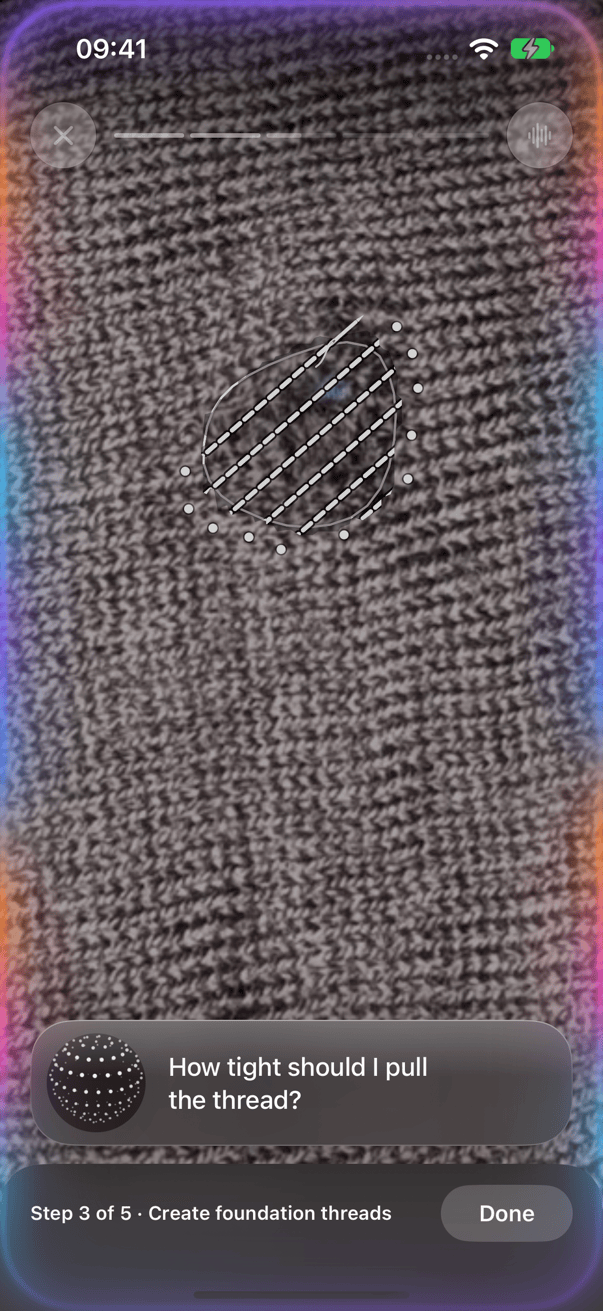
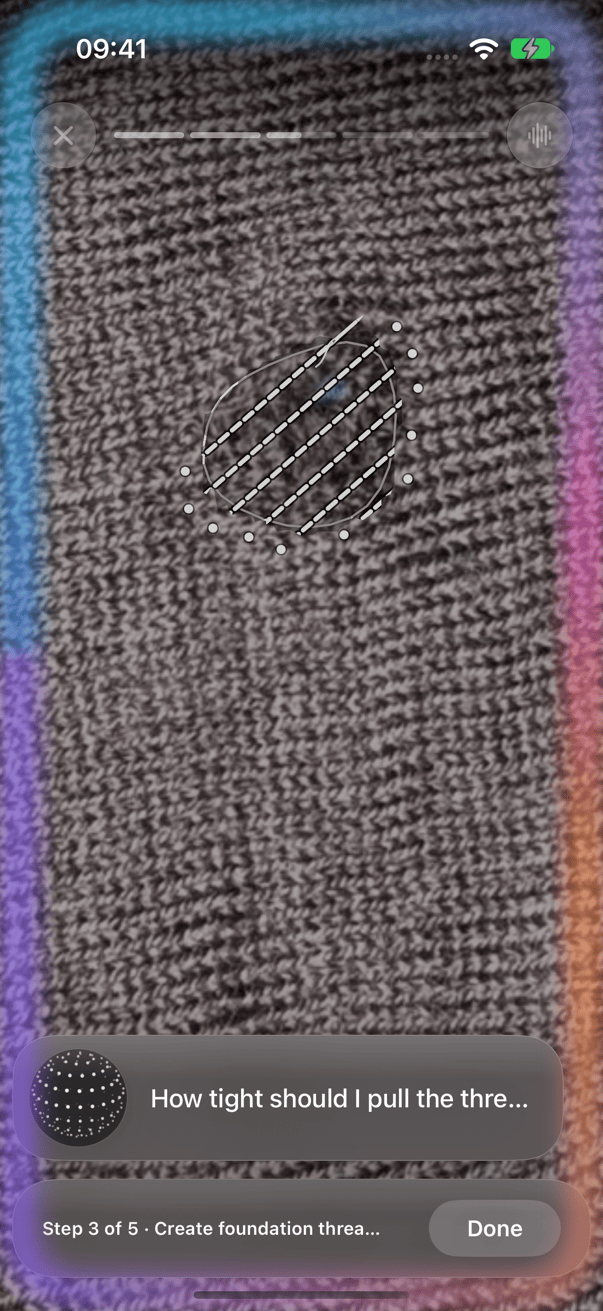
ios: hands-free round 3, one glass stack, soft inner edge glow, higher contrast text and progress

Changed region(s): [[0.0, 0.0, 1.0, 1.0], [0.4478, 0.0915, 0.5075, 0.122]]

diff --git a/ios/RepairAssistant/DesignSystem/HandsFreeOverlay.swift b/ios/RepairAssistant/DesignSystem/HandsFreeOverlay.swift
@@ -7,89 +7,47 @@ struct HandsFreeGlow: View {
     var level: Float
     @Environment(\.accessibilityReduceMotion) private var reduceMotion
 
+    /// Answer card shown: same colours, dimmer (0.35 instead of 0.55).
+    var answerShown = false
+
     private static let colors: [Color] = [
         Color(red: 0.55, green: 0.38, blue: 1.00),   // violet
+        Color(red: 0.25, green: 0.55, blue: 1.00),   // blue
         Color(red: 0.20, green: 0.80, blue: 1.00),   // cyan
-        Color(red: 0.98, green: 0.30, blue: 0.80),   // magenta
-        Color(red: 1.00, green: 0.55, blue: 0.20),   // orange
-        Color(red: 0.30, green: 0.55, blue: 1.00),   // blue
-        Color(red: 0.55, green: 0.38, blue: 1.00),   // violet
-        Color(red: 0.20, green: 0.80, blue: 1.00),   // cyan
-        Color(red: 0.98, green: 0.30, blue: 0.80),   // magenta
-        Color(red: 1.00, green: 0.55, blue: 0.20),   // orange
+        Color(red: 0.98, green: 0.35, blue: 0.80),   // magenta
+        Color(red: 1.00, green: 0.55, blue: 0.25),   // orange
+        Color(red: 0.55, green: 0.38, blue: 1.00),   // violet (closes the loop)
     ]
 
     var body: some View {
         if reduceMotion {
-            canvas(t: 1.0, breath: 0.5)
+            canvas(t: 0)
         } else {
-            TimelineView(.animation) { tl in
-                let t = tl.date.timeIntervalSinceReferenceDate
-                canvas(t: t, breath: 0.5 + 0.5 * sin(t * 1.4))
-            }
+            TimelineView(.animation) { tl in canvas(t: tl.date.timeIntervalSinceReferenceDate) }
         }
     }
 
-    /// Calmer while the answer is spoken or the model thinks, brighter and mic-reactive while the user speaks.
-    private var intensity: Double {
-        switch phase {
-        case .off: return 0
-        case .idle: return 0.55
-        case .hearing: return 0.75 + 0.25 * Double(level)
-        case .thinking: return 0.7
-        case .speaking: return 0.6
-        }
+    /// One soft inner stroke: 0.55 opacity (0.35 while the answer card is up), a touch brighter with the mic level.
+    private var opacity: Double {
+        if phase == .off { return 0 }
+        if answerShown { return 0.35 }
+        return 0.55 + (phase == .hearing ? 0.15 * Double(level) : 0)
     }
 
-    private func canvas(t: Double, breath: Double) -> some View {
-        let pulse: Double = {
-            switch phase {
-            case .hearing: return 0.9 + 0.1 * breath + 0.25 * Double(level)
-            case .speaking, .thinking: return 0.86 + 0.14 * breath
-            default: return 1
-            }
-        }()
-        let k = intensity * pulse
-        let wide = 1 + (phase == .hearing ? 0.35 * Double(level) : 0)
+    private func canvas(t: Double) -> some View {
+        let k = opacity
         return Canvas { ctx, size in
             let rect = CGRect(origin: .zero, size: size)
             let radius = max(8, UIScreen.main.displayCornerRadiusApprox)
-            func path(inset: CGFloat) -> Path {
-                RoundedRectangle(cornerRadius: max(8, radius - inset), style: .continuous).path(in: rect.insetBy(dx: inset, dy: inset))
-            }
-            let center = CGPoint(x: size.width / 2, y: size.height / 2)
-            func conic(_ shift: Double) -> GraphicsContext.Shading {
-                var cs = Self.colors
-                cs.append(cs[0])
-                let r = max(size.width, size.height) * 0.5
-                let d = CGPoint(x: cos(shift) * r, y: sin(shift) * r)
-                return .linearGradient(Gradient(colors: cs), startPoint: CGPoint(x: center.x - d.x, y: center.y - d.y), endPoint: CGPoint(x: center.x + d.x, y: center.y + d.y))
-            }
-            let a = t * 2 * .pi / 6
+            let width: CGFloat = 24
+            // Stroke centre line sits half a stroke inside the display edge, so the outer edge follows the display corners.
+            let inset = width / 2
+            let path = RoundedRectangle(cornerRadius: max(8, radius - inset), style: .continuous).path(in: rect.insetBy(dx: inset, dy: inset))
+            let angle = Angle.radians(t * 2 * .pi / 8)   // 8 s per revolution
             ctx.drawLayer { l in
-                l.opacity = 0.35 * k
-                l.addFilter(.blur(radius: 28))
-                l.stroke(path(inset: 6), with: conic(a), lineWidth: 24 * wide)
-            }
-            ctx.drawLayer { l in
-                l.opacity = 0.7 * k
-                l.blendMode = .plusLighter
-                l.addFilter(.blur(radius: 10))
-                l.stroke(path(inset: 3), with: conic(a), lineWidth: 10 * wide)
-            }
-            ctx.drawLayer { l in
-                l.opacity = min(1, k + 0.1)
-                l.addFilter(.blur(radius: 2))
-                l.stroke(path(inset: 1.5), with: conic(a), lineWidth: 3)
-            }
-        }
-        .mask {
-            // No bleed into the bottom bar: fade to 0.4 over the bottom 190 pt.
-            GeometryReader { g in
-                VStack(spacing: 0) {
-                    Color.white.frame(height: max(0, g.size.height - 190))
-                    LinearGradient(colors: [.white, .white.opacity(0.4)], startPoint: .top, endPoint: .bottom).frame(height: min(190, g.size.height))
-                }
+                l.opacity = k
+                l.addFilter(.blur(radius: 9))
+                l.stroke(path, with: .conicGradient(Gradient(colors: Self.colors), center: CGPoint(x: size.width / 2, y: size.height / 2), angle: angle), lineWidth: width)
             }
         }
         .ignoresSafeArea()
@@ -103,16 +61,17 @@ private extension UIScreen {
     var displayCornerRadiusApprox: CGFloat { bounds.height >= 800 ? 52 : 12 }
 }
 
-/// Real glass: ultra thin material, light tint, inner gradient stroke and a soft top highlight.
-private struct HandsFreeGlass<S: InsettableShape>: ViewModifier {
+/// One Liquid Glass material for the capsule, the answer card and the collapsed bar: thin material, ~12 % white tint,
+/// 0.5 pt white 25 % inner stroke and a soft specular top edge.
+struct HandsFreeGlass<S: InsettableShape>: ViewModifier {
     var shape: S
     func body(content: Content) -> some View {
         content
-            .background(Color.black.opacity(0.10), in: shape)
-            .background(.ultraThinMaterial, in: shape)
-            .overlay(shape.fill(LinearGradient(colors: [.white.opacity(0.22), .clear], startPoint: .top, endPoint: UnitPoint(x: 0.5, y: 0.45))).allowsHitTesting(false))
-            .overlay(shape.strokeBorder(LinearGradient(colors: [.white.opacity(0.45), .white.opacity(0.08), .white.opacity(0.22)], startPoint: .top, endPoint: .bottom), lineWidth: 0.75))
-            .shadow(color: .black.opacity(0.3), radius: 22, y: 8)
+            .background(Color.white.opacity(0.12), in: shape)
+            .background(.thinMaterial, in: shape)
+            .overlay(shape.fill(LinearGradient(colors: [.white.opacity(0.16), .clear], startPoint: .top, endPoint: UnitPoint(x: 0.5, y: 0.35))).allowsHitTesting(false))
+            .overlay(shape.strokeBorder(Color.white.opacity(0.25), lineWidth: 0.5).allowsHitTesting(false))
+            .shadow(color: .black.opacity(0.22), radius: 18, y: 6)
     }
 }
 
@@ -133,7 +92,7 @@ struct HandsFreeCapsule: View {
             }
         }
         .environment(\.colorScheme, .dark)
-        .padding(.horizontal, Theme.margin)
+        .padding(.horizontal, 8)
         .animation(Theme.spring, value: model.phase)
         .animation(Theme.spring, value: model.answer)
         .animation(Theme.spring, value: model.caption.isEmpty)
@@ -156,10 +115,10 @@ struct HandsFreeCapsule: View {
         let content = HStack(spacing: 10) {
             ThinkingOrb(state: orbState, size: 72, tempo: model.phase == .hearing ? 1.0 : 0.7, level: model.phase == .hearing ? model.level : 0)
                 .frame(width: 76, height: 76)
-                .background(Circle().fill(Color.black.opacity(0.45)).frame(width: 66, height: 66))
+                .background(Circle().fill(Color.black.opacity(0.45)).overlay(Circle().strokeBorder(Color.white.opacity(0.25), lineWidth: 0.5)).frame(width: 66, height: 66))
             VStack(alignment: .leading, spacing: 2) {
                 if model.phase == .thinking, !model.caption.isEmpty, model.notice == nil {
-                    Text(model.caption).font(.system(size: 14)).foregroundStyle(.white.opacity(0.7)).lineLimit(1)
+                    Text(model.caption).font(.system(size: 15, weight: .semibold)).foregroundStyle(.white.opacity(0.7)).lineLimit(1)
                 }
                 Text(statusText)
                     .font(.body.weight(.medium))
@@ -169,8 +128,9 @@ struct HandsFreeCapsule: View {
                     .contentTransition(.opacity)
             }
             .frame(maxWidth: 260, alignment: .leading)
+            .fixedSize(horizontal: true, vertical: false)
         }
-        .padding(.leading, 6).padding(.trailing, 22).padding(.vertical, 4)
+        .padding(.leading, 6).padding(.trailing, 16).padding(.vertical, 4)
         .accessibilityElement(children: .combine)
         .accessibilityLabel(statusText)
         return HStack(spacing: 0) {
@@ -187,9 +147,9 @@ struct HandsFreeCapsule: View {
             VStack(alignment: .leading, spacing: 8) {
                 HStack(spacing: 8) {
                     ThinkingOrb(state: .listening, size: 36, tempo: 0.7).frame(width: 40, height: 40)
-                        .background(Circle().fill(Color.black.opacity(0.45)).frame(width: 34, height: 34))
+                        .background(Circle().fill(Color.black.opacity(0.45)).overlay(Circle().strokeBorder(Color.white.opacity(0.25), lineWidth: 0.5)).frame(width: 34, height: 34))
                     if !model.caption.isEmpty {
-                        Text(model.caption).font(.system(size: 14)).foregroundStyle(.white.opacity(0.7)).lineLimit(1)
+                        Text(model.caption).font(.system(size: 15, weight: .semibold)).foregroundStyle(.white.opacity(0.7)).lineLimit(1)
                     }
                     Spacer(minLength: 0)
                 }

diff --git a/ios/RepairAssistant/Views/GuideView.swift b/ios/RepairAssistant/Views/GuideView.swift
@@ -77,7 +77,7 @@ struct GuideView: View {
             }
         }
         .overlay {
-            if handsFree.isActive { HandsFreeGlow(phase: handsFree.phase, level: handsFree.level).transition(.opacity) }
+            if handsFree.isActive { HandsFreeGlow(phase: handsFree.phase, level: handsFree.level, answerShown: handsFree.answer != nil).transition(.opacity) }
         }
         .animation(.easeInOut(duration: 0.6), value: handsFree.isActive)
         .background(Color.black.ignoresSafeArea())
@@ -127,6 +127,7 @@ struct GuideView: View {
                 .font(.system(size: 16, weight: .semibold))
                 .foregroundStyle(.white)
                 .frame(width: 44, height: 44)
+                .background(Color.black.opacity(0.3), in: Circle())
                 .glass(Circle(), tint: nil, interactive: true)
                 .overlay { if handsFree.isActive { Circle().fill(Color.white.opacity(0.16)) } }
                 .contentShape(Circle())
@@ -160,9 +161,11 @@ struct GuideView: View {
     // MARK: Photo
 
     private static let barContentHeight: CGFloat = 46
+    /// Floating bar: 8 pt from the screen edge, lifted a little above the home indicator.
+    private static func barBottomGap(_ inset: CGFloat) -> CGFloat { max(8, inset - 12) }
     private static let baseAnchor: CGFloat = 0.33
 
-    private func barHeight(_ geo: FullGeo) -> CGFloat { Self.barContentHeight + 10 + 8 + geo.safeAreaInsets.bottom }
+    private func barHeight(_ geo: FullGeo) -> CGFloat { Self.barContentHeight + 20 + Self.barBottomGap(geo.safeAreaInsets.bottom) }
 
     /// The work area on screen at the normal anchor: damage bounds scaled by the zoom, padded for stitch overlay and labels.
     private func workRect(_ r: AnalyzeResponse, size: CGSize) -> CGRect {
@@ -205,11 +208,11 @@ struct GuideView: View {
             .buttonStyle(.plain)
         }
         .frame(height: Self.barContentHeight)
-        .padding(.horizontal, Theme.margin).padding(.top, 10).padding(.bottom, bottomInset + 8)
+        .padding(.horizontal, Theme.margin).padding(.vertical, 10)
         .frame(maxWidth: .infinity)
-        .background(.ultraThinMaterial, in: UnevenRoundedRectangle(topLeadingRadius: 28, topTrailingRadius: 28, style: .continuous))
-        .background(Color.black.opacity(0.35), in: UnevenRoundedRectangle(topLeadingRadius: 28, topTrailingRadius: 28, style: .continuous))
+        .modifier(HandsFreeGlass(shape: RoundedRectangle(cornerRadius: 28, style: .continuous)))
         .environment(\.colorScheme, .dark)
+        .padding(.horizontal, 8).padding(.bottom, Self.barBottomGap(bottomInset))
     }
 
     private func photo(_ step: GuideStep, _ r: AnalyzeResponse, geo: FullGeo) -> some View {
@@ -234,7 +237,7 @@ struct GuideView: View {
         VStack(spacing: 10) {
             HStack(spacing: 12) {
                 CircleIconButton(systemImage: "xmark", label: "Close", onPhoto: true) { flow.persist(); flow.reset() }
-                SegmentBar(count: steps.count, done: index, current: index, height: 3, onPhoto: true)
+                SegmentBar(count: steps.count, done: index, current: index, height: 4, onPhoto: true)
                 handsFreeButton
             }
             if let hint = handsFree.hint {

diff --git a/ios/RepairAssistant/DesignSystem/Components.swift b/ios/RepairAssistant/DesignSystem/Components.swift
@@ -65,6 +65,7 @@ struct CircleIconButton: View {
                 .font(.system(size: 16, weight: .semibold))
                 .foregroundStyle(onPhoto ? Color.white : Theme.ink)
                 .frame(width: 44, height: 44)
+                .background(Color.black.opacity(onPhoto ? 0.3 : 0), in: Circle())
                 .glass(Circle(), interactive: true)
                 .contentShape(Circle())
         }
@@ -89,12 +90,12 @@ struct SegmentBar: View {
             ForEach(0..<max(count, 1), id: \.self) { i in
                 let filled = i < done
                 let isCurrent = current == i && !filled
-                Capsule().fill(onPhoto ? Color.white.opacity(0.32) : Theme.fill)
+                Capsule().fill(onPhoto ? Color.white.opacity(0.45) : Theme.fill)
                     .overlay(alignment: .leading) {
                         GeometryReader { g in
                             Capsule().fill(onPhoto ? Color.white : Theme.thread)
                                 .frame(width: filled ? g.size.width : (isCurrent ? g.size.width * 0.5 : 0))
-                                .opacity(isCurrent ? 0.6 : 1)
+                                .opacity(isCurrent && !onPhoto ? 0.6 : 1)
                         }
                     }
                     .frame(height: height)
